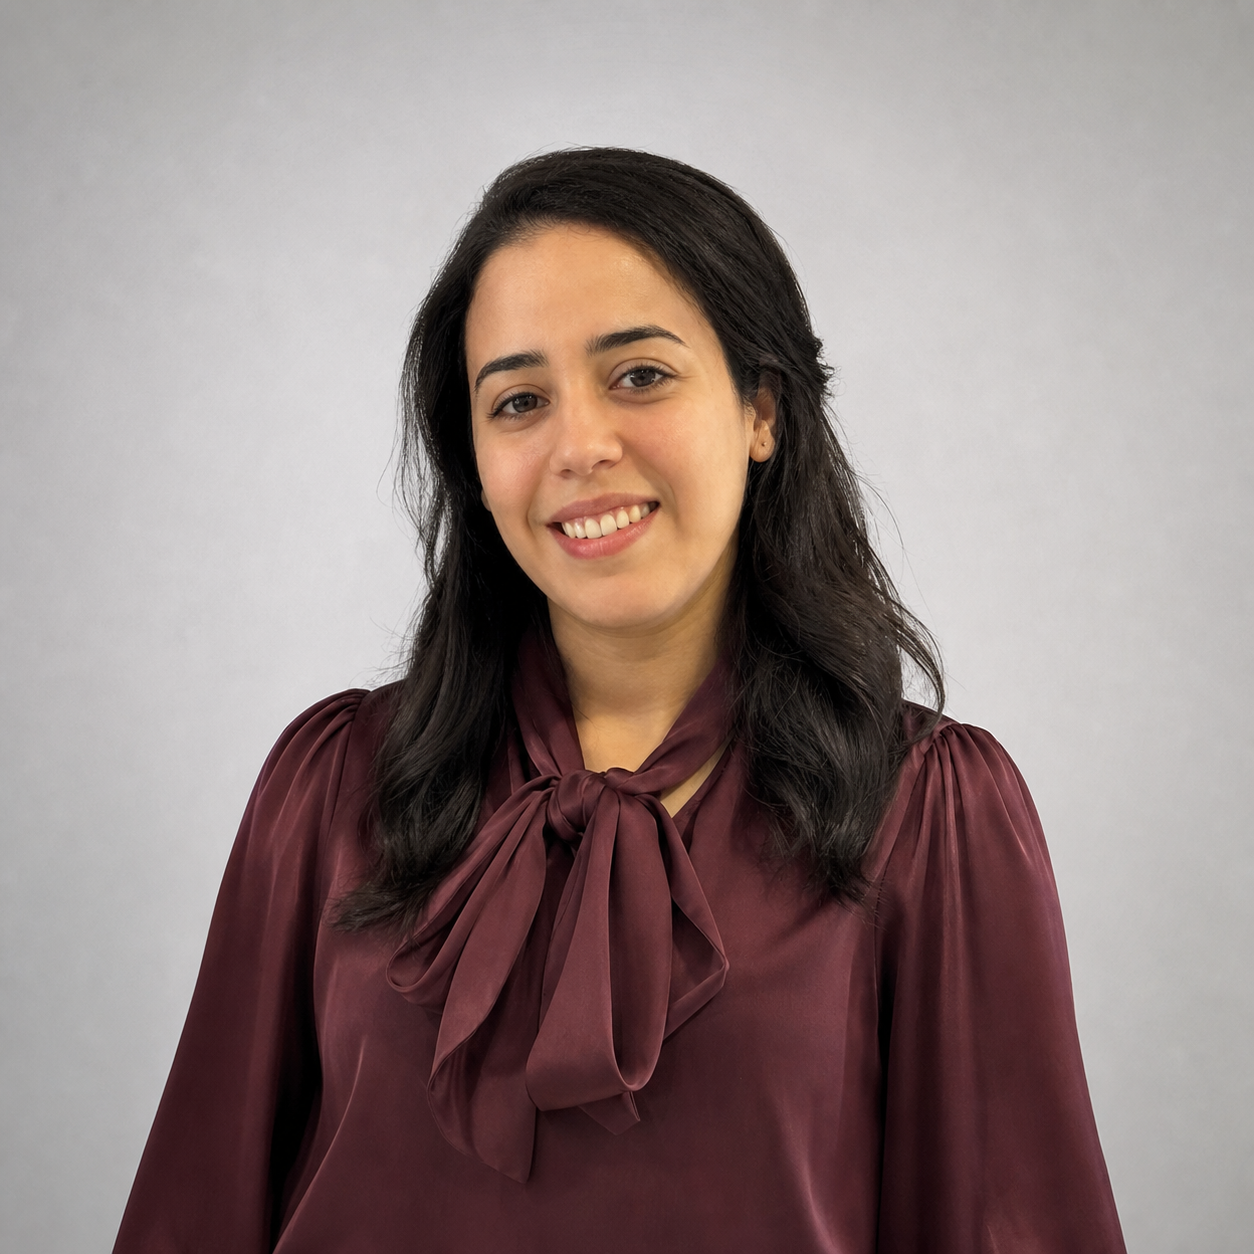
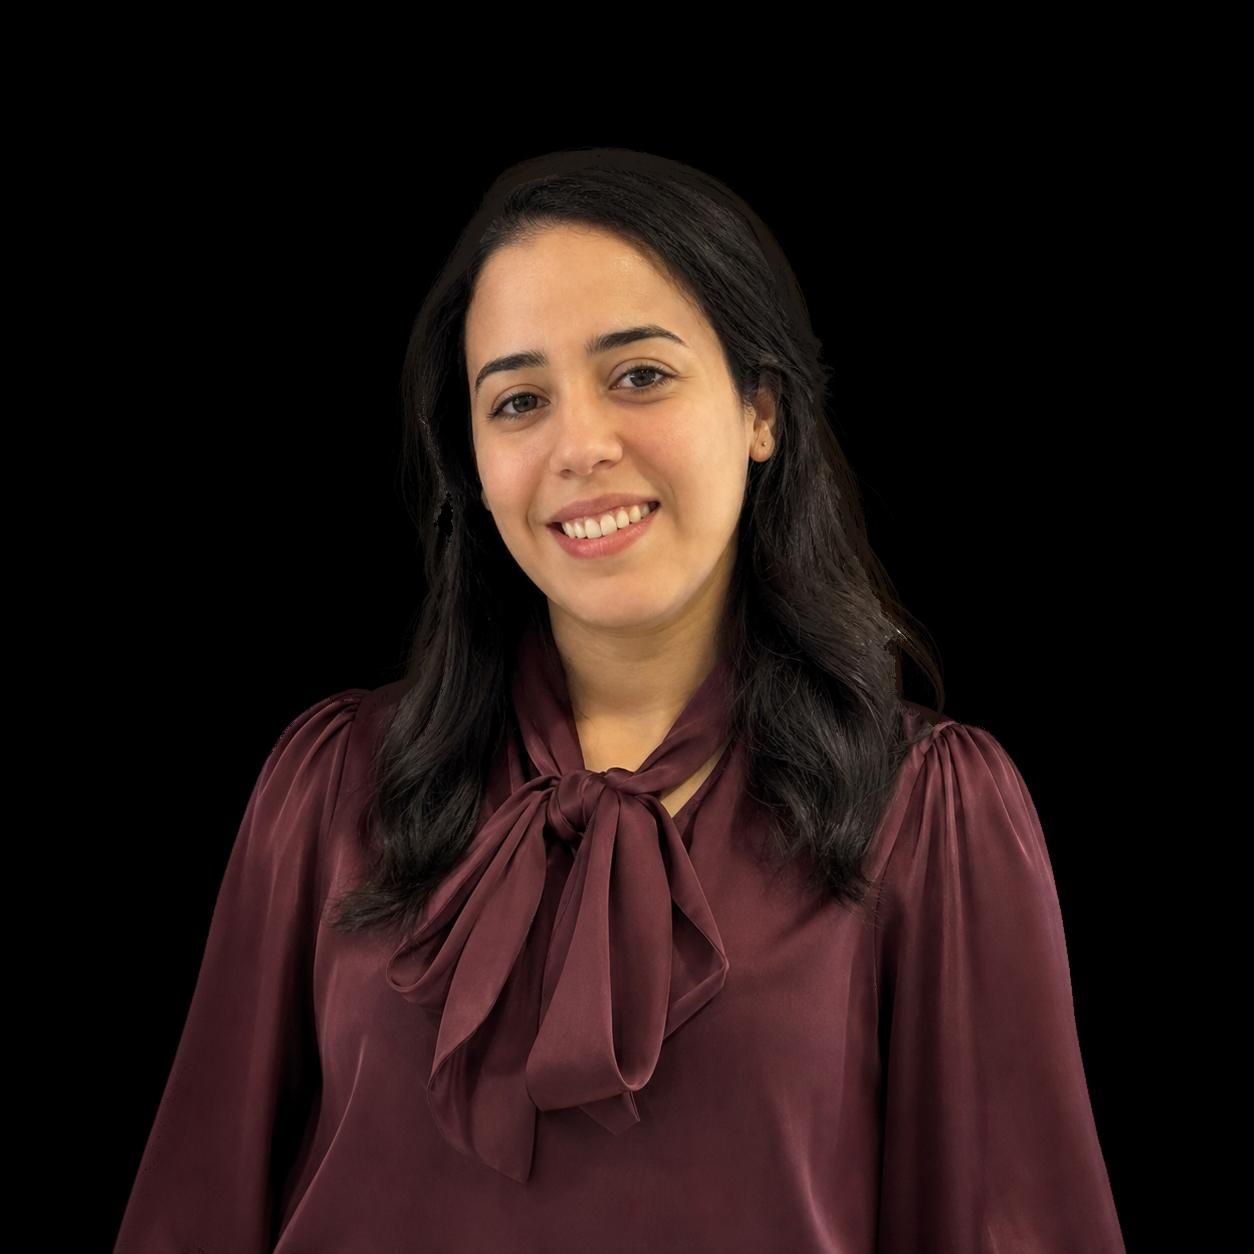
add popup for each project

diff --git a/src/pages/Portfolio.jsx b/src/pages/Portfolio.jsx
@@ -3,10 +3,46 @@ import ClickButton from "../components/Button.jsx";
 import ProjectImgproject1 from "../assets/designthinkingproject.png";
 import ProjectImgproject2 from "../assets/svgproject.png";
 import ProjectImgproject3 from "../assets/GameShop.png";
+import ProjectPopup from "../components/ProjectPopup.jsx";
 import { useState } from "react";
 
 function Portfolio() {
   const [showProjects, setShowProjects] = useState(false);
+  const [selectedProject, setSelectedProject] = useState(null);
+  const projects = [
+    {
+      id: 1,
+      name: "Productly",
+      image: ProjectImgproject1,
+      repolink: "https://github.com/fatimazohrafadirik/assignment07",
+      tech: "HTML, CSS, Grid",
+      description: "Responsive Web Design and Adaptive Graphics.",
+      learning: "I learned how to create responsive layouts using CSS Grid.",
+      challenges: "Creating a responsive design for different screen sizes.",
+    },
+    {
+      id: 2,
+      name: "NEON ARCADE NIGHT",
+      image: ProjectImgproject2,
+      repolink: "https://github.com/fatimazohrafadirik/Assignmentlesson9",
+      tech: "HTML, CSS, SVG, CSS Animation",
+      description: "Responsive Web Design with SVG and animations.",
+      learning: "I learned how to work with SVG graphics and CSS animations.",
+      challenges: "Creating animations and integrating SVG graphics.",
+    },
+    {
+      id: 3,
+      name: "Game Shop",
+      image: ProjectImgproject3,
+      repolink: "https://github.com/kiwijander/Gameshop",
+      tech: "HTML, CSS, SVG, Animation",
+      description: "Responsive online game shop.",
+      learning: "I learned how to collaborate and build a responsive website.",
+      challenges:
+        "Working together and combining different parts of the project.",
+      team: "Fatima, Denis and Orion",
+    },
+  ];
 
   return (
     <>
@@ -18,6 +54,24 @@ function Portfolio() {
         {showProjects ? "Hide My Projects" : "Show My Projects"}
       </ClickButton>
 
+      <div className="projects-container">
+        {projects.map((project) => (
+          <Project
+            key={project.id}
+            project={project}
+            onClick={() => setSelectedProject(project)}
+          />
+        ))}
+      </div>
+
+      {selectedProject && (
+        <ProjectPopup
+          project={selectedProject}
+          onClose={() => setSelectedProject(null)}
+        />
+      )}
+
+      {/* popup appears array of projects
       {showProjects && (
         <div>
           <Project
@@ -42,8 +96,8 @@ function Portfolio() {
             description="Responsive Web Design "
             Team="Fatima , Denis and Orion"
           ></Project>
-        </div>
-      )}
+          </div> 
+          )}*/}
     </>
   );
 }

diff --git a/src/components/Component1.jsx b/src/components/Component1.jsx
@@ -1,25 +1,42 @@
 import "./Component1.css";
 
-function Project(props) {
-  return (
-    <>
-      <section className="box">
-        <div className="project">
-          <h1>Project name : {props.name} </h1>
-          <img className="img" src={props.image} alt="project image" />
+// function Project(props) {
+//   return (
+//     <>
+//       <section className="box">
+//         <div className="project">
+//           <h1>Project name : {props.name} </h1>
+//           <img className="img" src={props.image} alt="project image" />
 
-          <h3>
-            Github repo :
-            <a href={props.repolink} target="_blank" rel="Project Link">
-              View on GitHub
-            </a>
-          </h3>
-          <h3>Tech used : {props.tech} </h3>
-          <h3>Description : {props.description}</h3>
-          <h3>The team worked on this project : {props.Team} </h3>
+//           <h3>
+//             Github repo :
+//             <a href={props.repolink} target="_blank" rel="Project Link">
+//               View on GitHub
+//             </a>
+//           </h3>
+//           <h3>Tech used : {props.tech} </h3>
+//           <h3>Description : {props.description}</h3>
+//           <h3>The team worked on this project : {props.Team} </h3>
+//         </div>
+//       </section>
+//     </>
+//   );
+// }
+
+// export default Project;
+
+function Project({ project, onClick }) {
+  return (
+    <section className="box" onClick={onClick}>
+      <div className="project">
+        <h2>{project.name}</h2>
+
+        <img className="img" src={project.image} alt={project.name} />
+        <div className="buttonblock">
+          <button className="projectPopup">Click to see project details</button>
         </div>
-      </section>
-    </>
+      </div>
+    </section>
   );
 }
 

diff --git a/src/components/ProjectPopup.jsx b/src/components/ProjectPopup.jsx
@@ -1,0 +1,37 @@
+import "./ProjectPopup.css";
+
+function ProjectPopup({ project, onClose }) {
+  return (
+    <div className="popup-overlay">
+      <div className="popup-content">
+        <button className="close-btn" onClick={onClose}>
+          &times;
+        </button>
+
+        <h2>{project.name}</h2>
+
+        <img src={project.image} alt={project.name} className="popup-image" />
+
+        <h3>Technologies used</h3>
+        <p>{project.tech}</p>
+
+        <h3>About the project</h3>
+        <p>{project.description}</p>
+
+        <h3>What I learned</h3>
+        <p>{project.learning}</p>
+
+        <h3>Challenges</h3>
+        <p>{project.challenges}</p>
+
+        {project.team && <p>Team: {project.team}</p>}
+
+        <a href={project.repolink} target="_blank" rel="noopener noreferrer">
+          View GitHub Repository
+        </a>
+      </div>
+    </div>
+  );
+}
+
+export default ProjectPopup;

diff --git a/src/components/ProjectPopup.css b/src/components/ProjectPopup.css
@@ -1,0 +1,55 @@
+.popup-overlay {
+  position: fixed;
+  top: 0;
+  left: 0;
+  width: 100%;
+  height: 100%;
+  background: rgba(0, 0, 0, 0.8);
+  display: flex;
+  justify-content: center;
+  align-items: center;
+  z-index: 1000;
+  padding: 20px;
+}
+
+.popup-content {
+  background: #fff;
+  color: #222;
+  padding: 30px;
+  border-radius: 15px;
+  width: 90%;
+  max-width: 650px;
+  max-height: 85vh;
+  overflow-y: auto;
+  position: relative;
+}
+
+.popup-image {
+  width: 100%;
+  border-radius: 10px;
+  margin: 15px 0;
+}
+
+.close-btn {
+  position: absolute;
+  top: 10px;
+  right: 15px;
+  border: none;
+  background: none;
+  font-size: 30px;
+  cursor: pointer;
+}
+
+.popup-content a {
+  display: inline-block;
+  background: #222;
+  color: white;
+  padding: 12px 20px;
+  border-radius: 8px;
+  text-decoration: none;
+  margin-top: 15px;
+}
+
+.popup-content a:hover {
+  background: #444;
+}

diff --git a/src/components/Component1.css b/src/components/Component1.css
@@ -3,6 +3,7 @@
   justify-content: center;
   align-items: center;
   padding: 10px 10px;
+  color: #352f0b;
 }
 
 .project {
@@ -28,4 +29,25 @@
 .project h1,
 .project h3 {
   text-align: center;
+}
+
+.buttonblock {
+  display: flex;
+  justify-content: center;
+  align-items: center;
+  min-height: 150px;
+}
+
+.projectPopup {
+  background-color: #ffd700;
+  border: none;
+  color: white;
+  padding: 15px 32px;
+  margin-bottom: 10px;
+  text-align: center;
+  text-decoration: none;
+  display: inline-block;
+  font-size: 16px;
+  cursor: pointer;
+  border-radius: 20px;
 }

diff --git a/src/components/Button.jsx b/src/components/Button.jsx
@@ -4,7 +4,7 @@ function ClickButton(props) {
   return (
     <button className="button" onClick={props.onClick}>
       <svg
-        class="svgIcon"
+        className="svgIcon"
         viewBox="0 0 512 512"
         height="1em"
         xmlns="http://www.w3.org/2000/svg"
